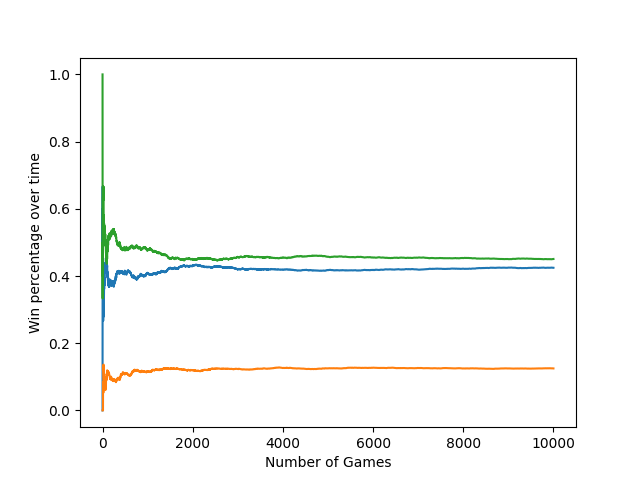
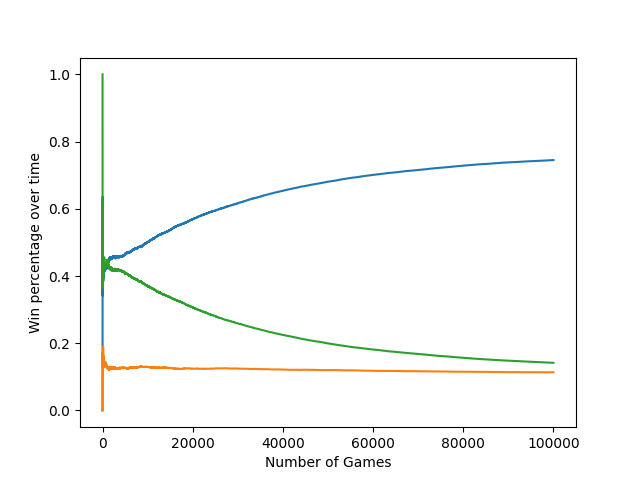
Reworked Q-Table Agent

diff --git a/src/Agents.py b/src/Agents.py
@@ -12,11 +12,16 @@ def containsElement(arr, val):
 
 def arrEqualsArr(arr1, arr2):
 
+	#print("arr1: {}".format(arr1.flatten()))
+	#print("arr2: {}".format(arr2.flatten()))
+
 	elementsThatMatch = arr1.flatten() == arr2.flatten()
 
 	for val in elementsThatMatch:
-		if val == False: return False
-
+		if val == False:
+			#print("False\n")
+			return False
+	#print("True\n")
 	return True
 
 
@@ -73,6 +78,31 @@ class Random(Agent):
 		return random.choice(possibleActions)
 
 
+class node():
+	def __init__(self, initialState, data, identifier):
+		"""data: A Dictionary that stores all the data related to the node"""
+
+		self.state = initialState
+		self.dat = data
+		self.id = identifier
+
+		self.PossibleActions = self.state.getPossibleActions()
+
+		self.actions = {}
+
+		for PossibleAction in self.PossibleActions:
+			self.actions[PossibleAction] = 0
+
+
+def locate(identifier, arr):
+	"""Returns the index of the Node with the provided identifier in the provided array if found, else returns False."""
+
+	for n in range(len(arr)):
+		if arrEqualsArr(arr[n].id, identifier):  # if arr[n].id == identifier:
+			return n
+	return False
+
+
 class QTable(Agent):
 
 	def __init__(self, gamma):
@@ -80,51 +110,52 @@ class QTable(Agent):
 
 		self.p = 1
 		self.gamma = gamma
-		self.states = []
+
+		self.masterNodes = []
+		self.gameNodes = []
+		self.gameActions = []
+
+		"""self.states = []
 		self.moves = []
 
 		self.gameStates = []
-		self.gameMoves = []
+		self.gameMoves = []"""
 
 
-	def move(self, state, piece):
+	def move(self, state):
 
-		move = None
+		currentState = node(state, {"score": 0}, identifier=np.copy(state.board))
 
-		if not containsArray(self.states, state):
-			self.states.append(np.copy(state))
-			self.moves.append(np.zeros((3,3), int))
+		index = locate(currentState.id, self.masterNodes)
+		if index == False:
+			self.masterNodes.append(currentState)
+		else:
+			currentState = self.masterNodes[index]
+
+		self.gameNodes.append(currentState)
+
 
 		if random.random() <= self.p:  # <= self.p
-			#print("Selecting Random Move")
-			while True:  # pick random move
-				row = random.randint(0, len(state[-1])-1)
-				cell = random.randint(0, len(state[-1][row])-1)
-				if state[-1][row][cell] == 1:
-					move = [row, cell]
-					break
+			keys = []
+			for key, val in currentState.actions.items():
+				keys.append(key)
+			action = random.choice(keys)
+			self.gameActions.append(action)
+			return action
 
 		else:
-			#print("Selecting Best Move\n\n\n")
-			stateIndex = None
+			best_val = float("-inf")
+			best_actions = []
+			for act, val in currentState.actions.items():
+				if val == best_val:
+					best_actions.append(act)
+				elif val > best_val:
+					best_val = val
+					best_actions = [act]
 
-			for n in range(len(self.states)):
-				if arrEqualsArr(self.states[n], state):
-					stateIndex = n
-					break
-
-			while True:  # pick best move
-
-				index1D = np.argmax(self.moves[stateIndex])
-				row, cell = to2DIndex(index1D, (3, 3))
-				if state[-1][row][cell] != 1: self.moves[stateIndex][row][cell] = self.moves[stateIndex].flatten()[self.moves[stateIndex].argmin()] - 1
-				else:
-					move = [row, cell]
-					break
-
-		self.gameStates.append(np.copy(state))
-		self.gameMoves.append(move)
-		return move
+			action = random.choice(best_actions)
+			self.gameActions.append(action)
+			return action
 
 
 	def giveReward(self, reward):
@@ -139,7 +170,13 @@ class QTable(Agent):
 		elif reward == -1:
 			score = reward
 
-		for s in range(len(self.gameStates)):
+		for n in range(len(self.gameNodes)):
+			actionTaken = self.gameActions[n]
+			#print("before: {}".format(self.gameNodes[n].actions[actionTaken]))
+			self.gameNodes[n].actions[actionTaken] += score
+			#print("after: {}\n".format(self.gameNodes[n].actions[actionTaken]))
+
+		"""for s in range(len(self.gameStates)):
 
 			stateIndex = 0
 
@@ -151,10 +188,10 @@ class QTable(Agent):
 			row = self.gameMoves[s][0]
 			column = self.gameMoves[s][1]
 
-			self.moves[stateIndex][row][column] += score
+			self.moves[stateIndex][row][column] += score"""
 
-		self.gameStates = []
-		self.gameMoves = []
+		self.gameNodes = []
+		self.gameActions = []
 		self.p *= self.gamma
 
 

diff --git a/src/Main.py b/src/Main.py
@@ -19,7 +19,6 @@ def play(env, players, display=False):
 
 	while True:
 
-		piece = 0 if currentPlayer == PlayerX else 1
 		action = players[currentPlayer].move(current_state)
 		current_state = current_state.takeAction(action)
 
@@ -31,12 +30,12 @@ def play(env, players, display=False):
 
 		if current_state.isWin():
 			if display: print("{} Won!".format(current_state.symbols[action.symbol]))
-			players[currentPlayer].giveReward(1)
+			players[currentPlayer].giveReward(-1)
 
 			if currentPlayer == 1:
-				players[0].giveReward(-1)
+				players[0].giveReward(1)
 			else:
-				players[1].giveReward(-1)
+				players[1].giveReward(1)
 
 			return
 
@@ -52,7 +51,7 @@ def play(env, players, display=False):
 if __name__ == '__main__':
 
 	TicENV = Environments.TicTacToeState
-	players = [Agents.Random(), Agents.Random()]  # Agents.QTable(0.99995)
+	players = [Agents.QTable(0.999939), Agents.Random()]  # Agents.QTable(0.99995)
 
 	history = []
 
@@ -65,22 +64,42 @@ if __name__ == '__main__':
 		play(TicENV, players, display=False)
 		history.append(players[0].getPercentages())
 
-	graph = []
+	winPercentage = []
+	drawPercentage = []
+	lossPercentage = []
 
 	for n in history:
-		graph.append(n[0])
+		winPercentage.append(n[0])
+		drawPercentage.append(n[1])
+		lossPercentage.append(n[2])
 
-	plt.plot(history)
+
+	win = plt.figure()
+	plt.plot(winPercentage)
 	plt.xlabel("Number of Games")
-	plt.ylabel("Win percentage over time")
-	plt.savefig("cumulative_accuracy.png")
+	plt.ylabel("Win Percentage")
+	plt.savefig("cumulative_wins.png")
+
+	draw = plt.figure()
+	plt.plot(drawPercentage)
+	plt.xlabel("Number of Games")
+	plt.ylabel("Draw Percentage")
+	plt.savefig("cumulative_draws.png")
+
+	loss = plt.figure()
+	plt.plot(lossPercentage)
+	plt.xlabel("Number of Games")
+	plt.ylabel("Loss Percentage")
+	plt.savefig("cumulative_losses.png")
 
 	print("Win Percentage: {}%".format(history[-1][0]))
 	print("Loss Percentage: {}%".format(history[-1][2]))
 	print("Draw Percentage: {}%".format(history[-1][1]))
 
-	print("unique game scenarios: {}".format(len(players[0].states)))
-	print("Move Rankings for Starting Position: {}".format(players[0].moves[0]))
+	print("unique game scenarios: {}".format(len(players[0].masterNodes)))
+	for n in range(10):
+		print("Move Rankings for Position {}: {}".format(n, players[0].masterNodes[n].actions.values()))
+	#print("Move Rankings for Starting Position: {}".format(players[0].masterNodes[2].actions.values()))
 
 
 

diff --git a/src/Test.py b/src/Test.py
@@ -1,11 +1,11 @@
 import math
-
+import random
 import numpy as np
 
-player = 1
-symbolsDict = {1:0, -1:1}
-symbol = symbolsDict[player]
+arr1 = np.array([[1,2,3],[4,5,6]])
 
-print(symbol)
+arr2 = np.array([[1,2,3],[4,7,6]])
 
-#hello world
+equal = arr1.flatten() == arr2.flatten()
+
+print(equal)

diff --git a/README.md b/README.md
@@ -17,6 +17,14 @@ python3 Main.py
 
 
 # Test Results
-![cumulative_acuracy](src/Random_vs_TQL-cumulative_accuracy.png)
 
-This graph shows the Win Percentage over 100,000 games of the Tabular Q-Learning model playing against the Random model
+
+The following graphs show the Win, Loss, and Draw percentages over 100,000 games of the Tabular Q-Learning model playing against the Random model.
+
+![cumulative_wins](src/cumulative_wins.png)
+![cumulative_losses](src/cumulative_losses.png)
+![cumulative_draws](src/cumulative_draws.png)
+
+Final Win Percentage: 0.73213%  
+Final Loss Percentage: 0.16164%  
+Final Draw Percentage: 0.10623%
